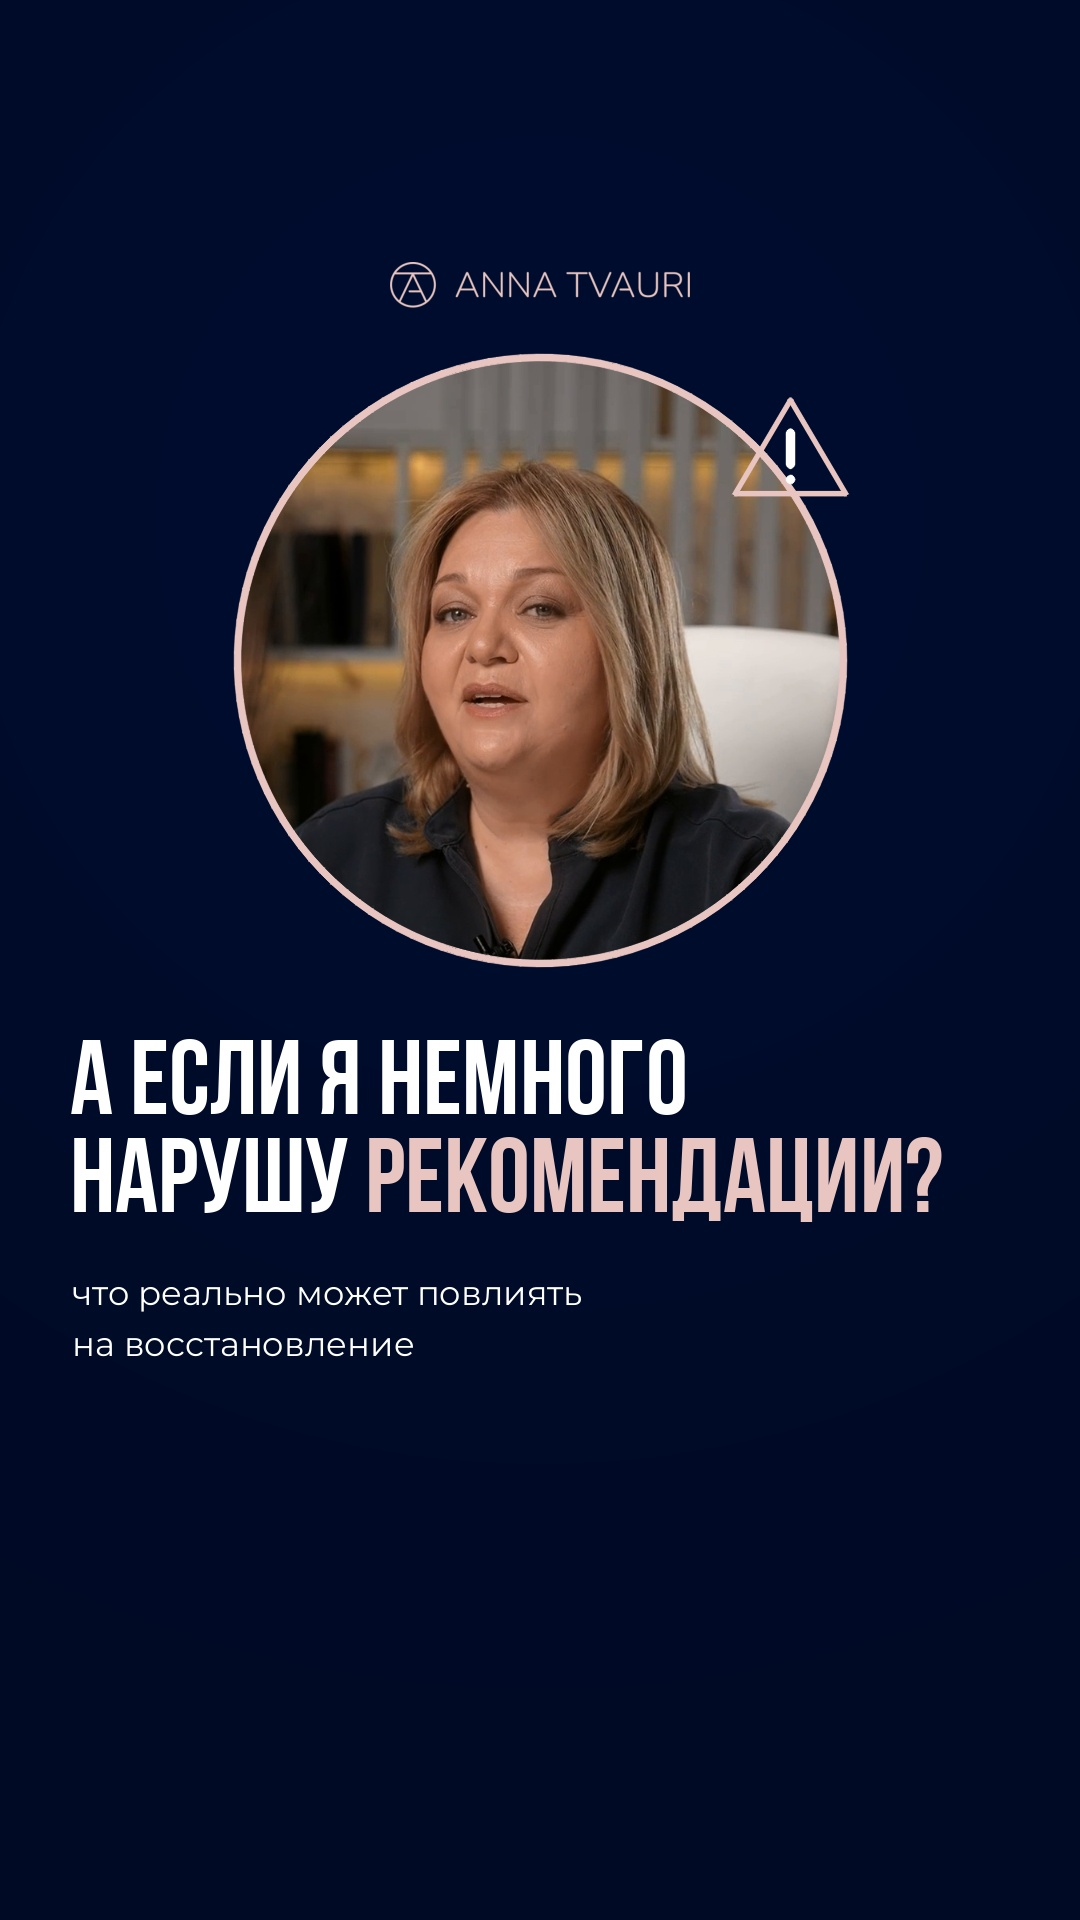
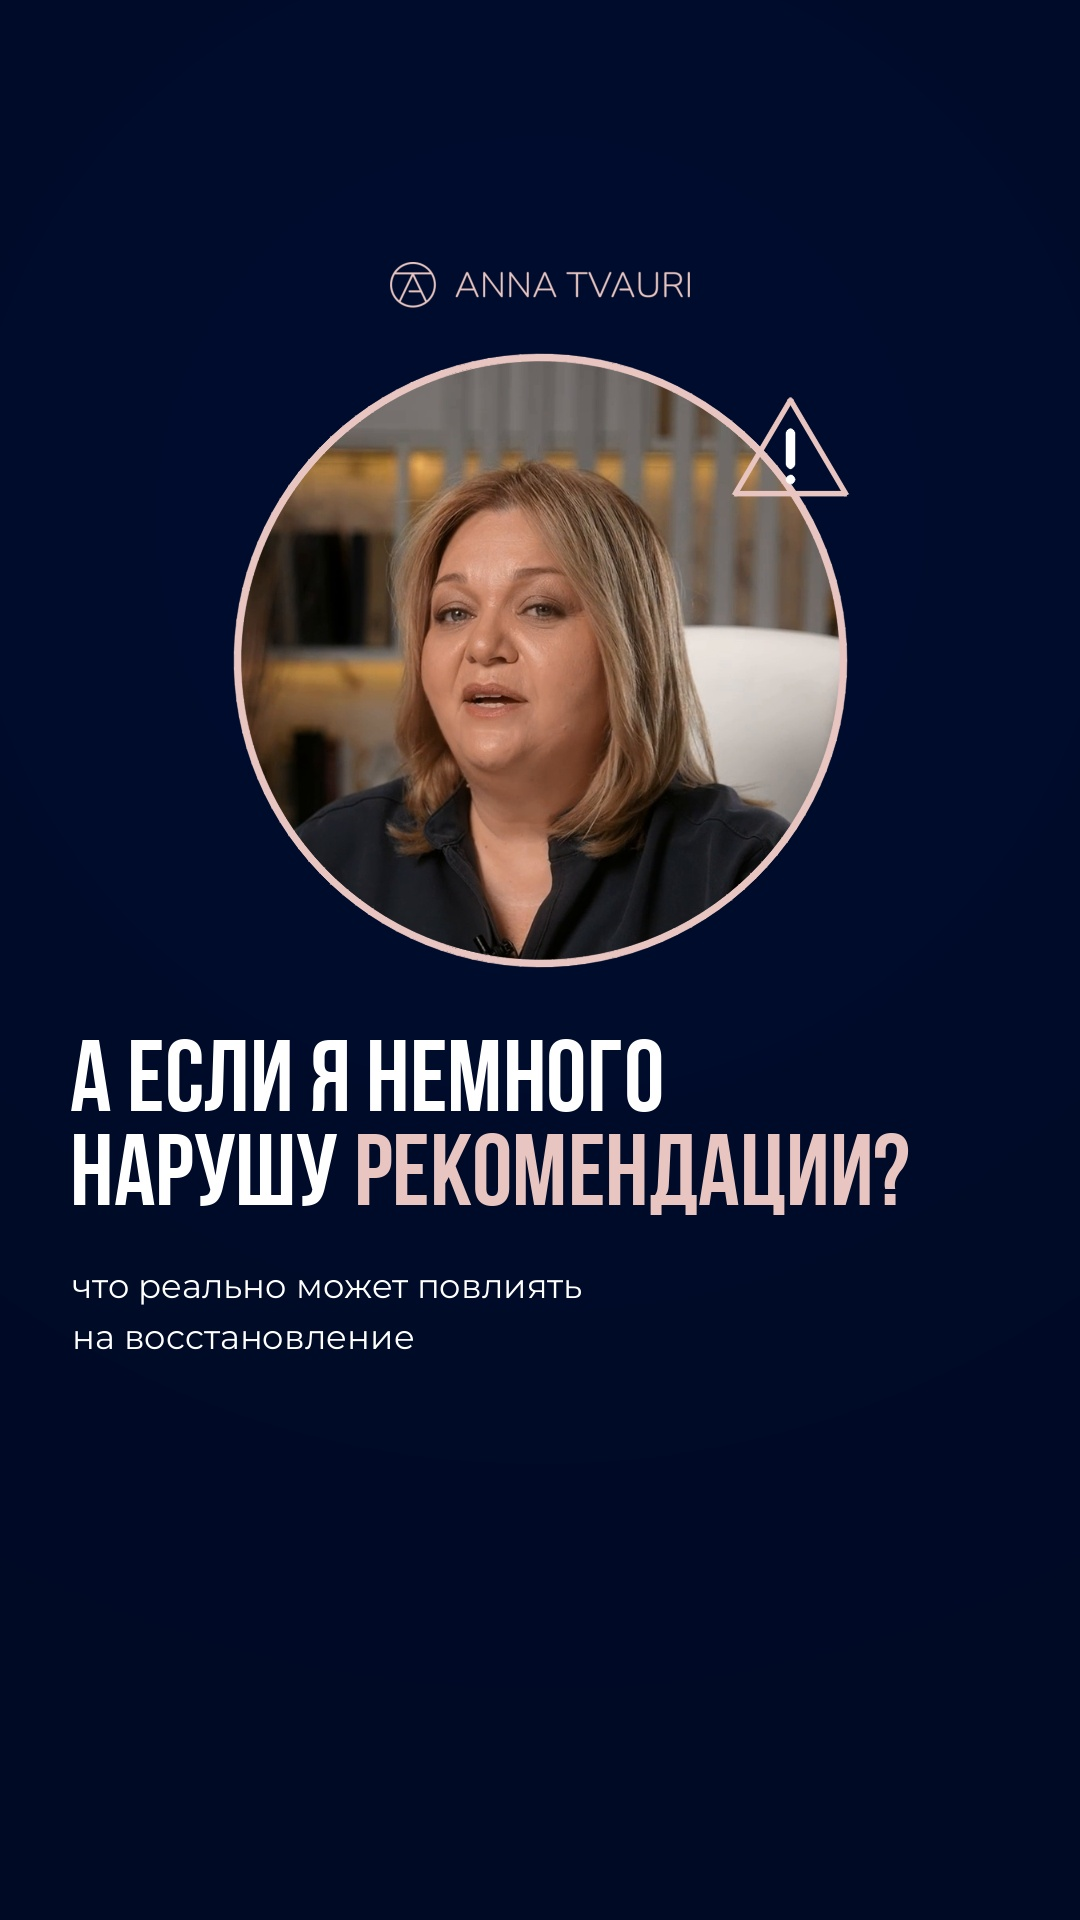
Recovery reel: keep every caption inside the Reels safe zone
Headlines, card labels, the result bar and the cover text now end at x ≤ 940; checked by
rendering the overlays alone every 0.2 s.

Claude-Session: https://claude.ai/code/session_01PotVFxhwJhJxfUVgu7Et5P

Changed region(s): [[0.0611, 0.5312, 0.8861, 0.7188]]

diff --git a/tools/reel_recovery.py b/tools/reel_recovery.py
@@ -419,7 +419,7 @@ def card(fr, kind, cx, cy, s, op, t_icon, t=0.0):
 
 # ---------------- scenes ----------------
 # S1 — straight into the question
-H1 = lift(Drop(["А ЕСЛИ Я НЕМНОГО", "*НАРУШУ РЕЖИМ?*"], 140, 70, 0, maxw=880), 1230)
+H1 = lift(Drop(["А ЕСЛИ Я НЕМНОГО", "*НАРУШУ РЕЖИМ?*"], 140, 70, 0, maxw=860), 1230)
 def s1(t):
     fr = fullshot(t, 1.10, -0.06, 0, 2.9); shade(fr, GBOT)
     k = eback((t - 0.35) / 0.35); wob = 6 * np.sin(t * 9) * (1 - cl((t - 0.35) / 1.5))
@@ -427,9 +427,9 @@ def s1(t):
     H1.draw(fr, t, 0.05); return shake(fr, t, 0.35, 8)
 
 # S2–S3 — the result bar: «хирург» fills in the operating room, «вы» stays open
-HB = Drop(["РЕЗУЛЬТАТ ОПЕРАЦИИ ="], 92, 0, 900, maxw=900)
+HB = Drop(["РЕЗУЛЬТАТ ОПЕРАЦИИ ="], 92, 0, 900, maxw=780)
 HB.x = 540 - max(r[1] for r in HB.rows) / 2
-BX0, BX1, BY0, BY1 = 110, 970, 1020, 1120
+BX0, BX1, BY0, BY1 = 150, 930, 1020, 1120                              # inside the Reels safe zone (x ≤ 940)
 def result_bar(fr, t, t0, fill1, fill2, y0=BY0, y1=BY1, x0=BX0, x1=BX1, f_lab=None, small=False):
     xm = (x0 + x1) / 2; p_out = eio((t - t0) / 0.6)
     rr = 22 if not small else 14
@@ -451,7 +451,7 @@ def s2(t):
     return fr
 
 # S4 — «после этого начинается этап…»: full screen, the headline, the bar's second half fills on «пациента»
-H4 = lift(Drop(["ПОСЛЕ ОПЕРАЦИИ ВАША ЧАСТЬ", "РАБОТЫ *ТОЛЬКО НАЧИНАЕТСЯ*"], 100, 70, 0, maxw=880), 1170)
+H4 = lift(Drop(["ПОСЛЕ ОПЕРАЦИИ ВАША ЧАСТЬ", "РАБОТЫ *ТОЛЬКО НАЧИНАЕТСЯ*"], 100, 70, 0, maxw=860), 1170)
 def s4(t):
     t0 = T_S["S4"]; fr = fullshot(t, 1.0 + bump(t, T_FILL2, 0.04), 0.05, t0, 5.0); shade(fr, GBOT); shade(fr, GBOT * 0.4)
     H4.draw(fr, t, t0 + 0.15)
@@ -471,7 +471,7 @@ def s5(t):
         if t < nxt:
             s = eback((t - ti) / 0.3); card(fr, kind, BIG[0], BIG[1], s, 1, eo((t - ti - 0.05) / 0.45))
             if i < 5: xmark(fr, BIG[0] + 104, BIG[1] - 104, 22, (t - ti - 0.5) / 0.35)
-            sz = fit_size(lab, 900, 74); text_c(fr, lab, 540, 1268, bebas(sz), PINK if i == 5 else WHITE, eo((t - ti - 0.1) / 0.3))
+            sz = fit_size(lab, 780, 74); text_c(fr, lab, 540, 1268, bebas(sz), PINK if i == 5 else WHITE, eo((t - ti - 0.1) / 0.3))
         else:
             q = eio((t - nxt) / 0.35); (sx, sy) = SLOT(i); cx, cy = lerp(BIG[0], sx, q), lerp(BIG[1], sy, q); s = lerp(1, 0.4, q)
             card(fr, kind, cx, cy, s, 1, 1); xmark(fr, cx + 104 * s, cy - 104 * s, 22 * s + 4, 1, th=max(4, int(8 * s)))
@@ -504,7 +504,7 @@ def s6(t):
     return fr
 
 # S7 — the key line, word by word, with a punch on every line
-K1 = Drop(["ОРГАНИЗМ НЕ"], 140, 70, 985, maxw=900); K2 = Drop(["*УСКОРЯЕТСЯ*"], 160, 70, 985 + 132, maxw=900); K3 = Drop(["ОТ НАШЕГО ЖЕЛАНИЯ"], 140, 70, 985 + 132 + 150, maxw=900)
+K1 = Drop(["ОРГАНИЗМ НЕ"], 140, 70, 985, maxw=860); K2 = Drop(["*УСКОРЯЕТСЯ*"], 160, 70, 985 + 132, maxw=860); K3 = Drop(["ОТ НАШЕГО ЖЕЛАНИЯ"], 140, 70, 985 + 132 + 150, maxw=860)
 def s7(t):
     z = 1.12 + sum(bump(t, tk, 0.035, 0.35) for tk in T_KEY); fr = fullshot(t, z); shade(fr, GBOT); fr *= 0.78; fr += 0.22 * DEEP
     K1.draw(fr, t, T_KEY[0] - 0.15, dur=0.25); K2.draw(fr, t, T(31.58) - 0.1, dur=0.25); K3.draw(fr, t, T_KEY[2] - 0.1, dur=0.25)
@@ -514,7 +514,7 @@ def s7(t):
     return shake(fr, t, T(31.58), 7, 0.3)
 
 # S8 — «не для галочки»: a big tick is drawn — and struck out
-H8 = Drop(["НЕ ДЛЯ *ГАЛОЧКИ*"], 120, 0, 1232, maxw=900); H8.x = 540 - H8.rows[0][1] / 2
+H8 = Drop(["НЕ ДЛЯ *ГАЛОЧКИ*"], 120, 0, 1232, maxw=780); H8.x = 540 - H8.rows[0][1] / 2
 T8 = Track(["рекомендации"], 34, 540, 0, 300, center=True)
 def s8(t):
     t0 = T_S["S8"]; fr = circle_layout(t, t0)
@@ -529,7 +529,7 @@ def s8(t):
     return fr
 
 # S9 — what the regime is for: three healing steps tick in under the headline
-H9 = Drop(["РЕЖИМ ПОСЛЕ ОПЕРАЦИИ", "ЭТО *ЧАСТЬ РЕЗУЛЬТАТА*"], 86, 70, 880, maxw=900)
+H9 = Drop(["РЕЖИМ ПОСЛЕ ОПЕРАЦИИ", "ЭТО *ЧАСТЬ РЕЗУЛЬТАТА*"], 86, 70, 880, maxw=860)
 HEAL = [("plus", "ТКАНИ СПОКОЙНО ЗАЖИВАЮТ"), ("drop", "ОТЁК УХОДИТ"), ("spark", "РЕЗУЛЬТАТ ФОРМИРУЕТСЯ ПРАВИЛЬНО")]
 def s9(t):
     t0 = T_S["S9"]; fr = circle_layout(t, t0, morph=False); H9.draw(fr, t, t0 + 0.1)
@@ -538,12 +538,12 @@ def s9(t):
         if t < ti: continue
         y = 1100 + k * 95; s = eback((t - ti) / 0.3)
         icon(fr, kind, 120, y, 0.36 * s, eo((t - ti) / 0.4), t=(t - ti) / 1.5)
-        a = alpha_img(lab, bebas(fit_size(lab, 760, 64))); p = eo((t - ti - 0.1) / 0.35); a2 = a.copy(); a2[:, int(a.shape[1] * p):] = 0
+        a = alpha_img(lab, bebas(fit_size(lab, 740, 64))); p = eo((t - ti - 0.1) / 0.35); a2 = a.copy(); a2[:, int(a.shape[1] * p):] = 0
         blend(fr, a2, 190, y - a.shape[0] / 2 + 6, WHITE)
     return fr
 
 # S10–S11 — the question with ДА / НЕТ; «нет» gets pressed, the calendar moves on
-H10 = lift(Drop(["СМОЖЕТЕ ЛИ ВЫ РЕАЛЬНО", "*СОБЛЮДАТЬ РЕЖИМ?*"], 112, 70, 0, maxw=880), 1150)
+H10 = lift(Drop(["СМОЖЕТЕ ЛИ ВЫ РЕАЛЬНО", "*СОБЛЮДАТЬ РЕЖИМ?*"], 112, 70, 0, maxw=860), 1150)
 def button(fr, txt, cx, cy, op, on=0.0, sc=1.0):
     w, h = 250 * sc, 92 * sc; x0, y0 = cx - w / 2, cy - h / 2
     blend(fr, rrect(x0, y0, x0 + w, y0 + h, 46 * sc), 0, 0, NAVY * (1 - on) + PINK * on, 0.88 * op)
@@ -568,7 +568,7 @@ def s10(t):
     return fr
 
 # END — closing card
-HZ = Drop(["ЛУЧШЕ ПЕРЕНЕСТИ ОПЕРАЦИЮ,", "ЧЕМ НЕ ДАТЬ СЕБЕ", "*НОРМАЛЬНО ВОССТАНОВИТЬСЯ*"], 104, 70, 760, maxw=900)
+HZ = Drop(["ЛУЧШЕ ПЕРЕНЕСТИ ОПЕРАЦИЮ,", "ЧЕМ НЕ ДАТЬ СЕБЕ", "*НОРМАЛЬНО ВОССТАНОВИТЬСЯ*"], 104, 70, 760, maxw=860)
 def s_end(t):
     lt = t - T_END; fr = gbg(t)
     lg = logo_alpha(320); blend(fr, lg, 540 - 160, 420, PINK, eo((lt - 0.1) / 0.5))
@@ -726,7 +726,7 @@ def make_cover(path):
     d = np.sqrt((xx - cx) ** 2 + (yy - cy) ** 2); m = np.clip(r - d + 0.5, 0, 1)[..., None]; fr = fr * (1 - m) + sub * m; ring(fr, cx, cy, r + 3)
     lg = logo_alpha(300); blend(fr, lg, 540 - 150, 262, PINK)
     icon(fr, "warn", 790, 450, 0.6)
-    hd = Drop(["А ЕСЛИ Я НЕМНОГО", "НАРУШУ *РЕКОМЕНДАЦИИ?*"], 110, 70, 1040, maxw=900); hd.draw(fr, 99, 0)
+    hd = Drop(["А ЕСЛИ Я НЕМНОГО", "НАРУШУ *РЕКОМЕНДАЦИИ?*"], 110, 70, 1040, maxw=860); hd.draw(fr, 99, 0)
     ty = Track(["что реально может повлиять", "на восстановление"], 34, 72, 0, 400); ty.y = 1040 + hd.h + 56 + ty.top; ty.draw(fr, 99, 0)
     cv2.imwrite(path, cv2.cvtColor((np.clip(fr, 0, 1) * 255).astype(np.uint8), cv2.COLOR_RGB2BGR), [cv2.IMWRITE_JPEG_QUALITY, 95])
 
